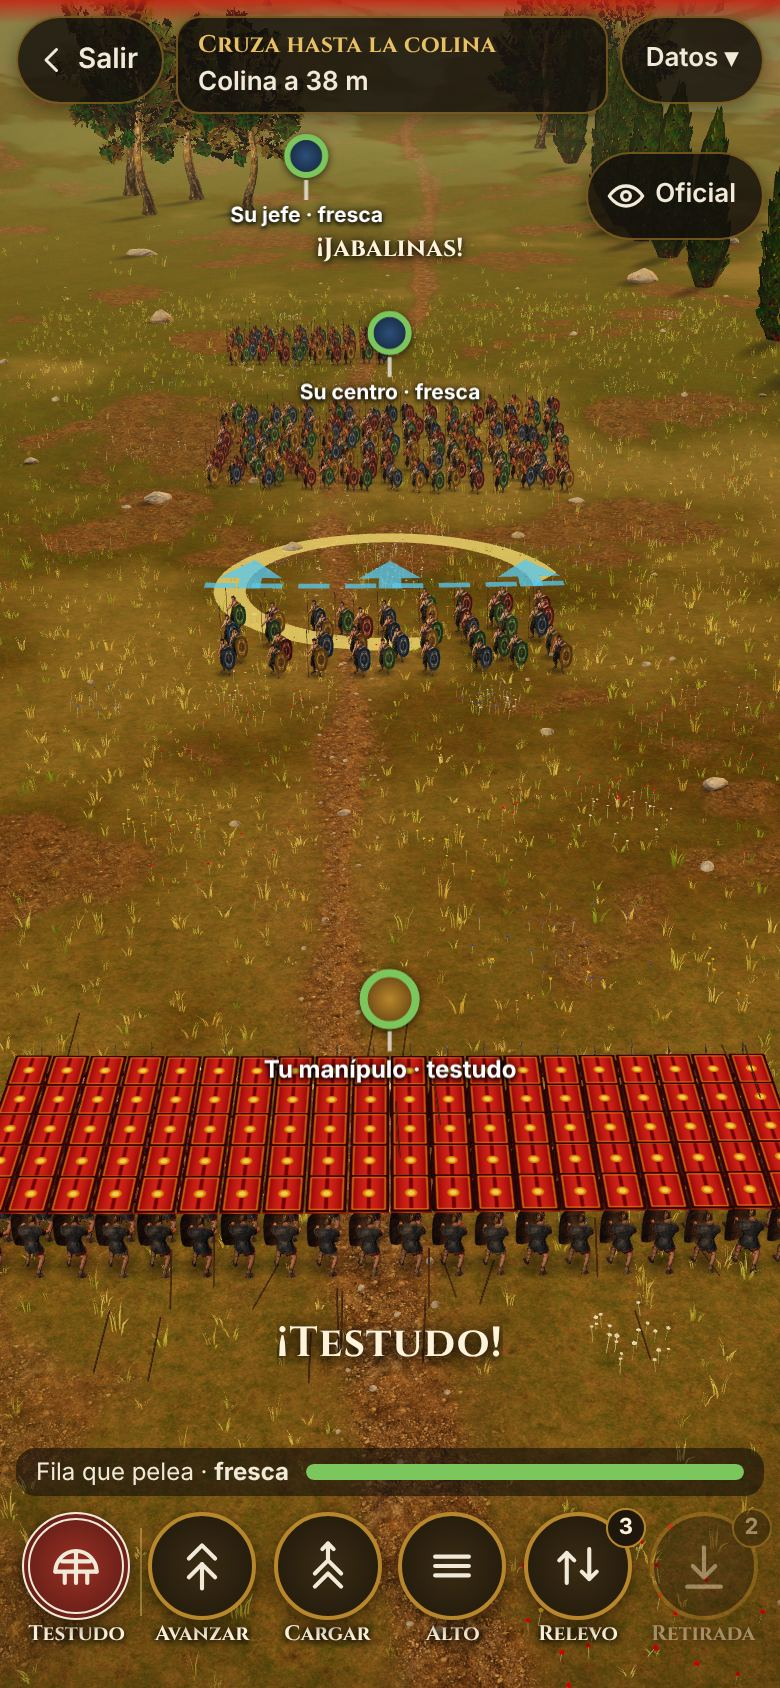
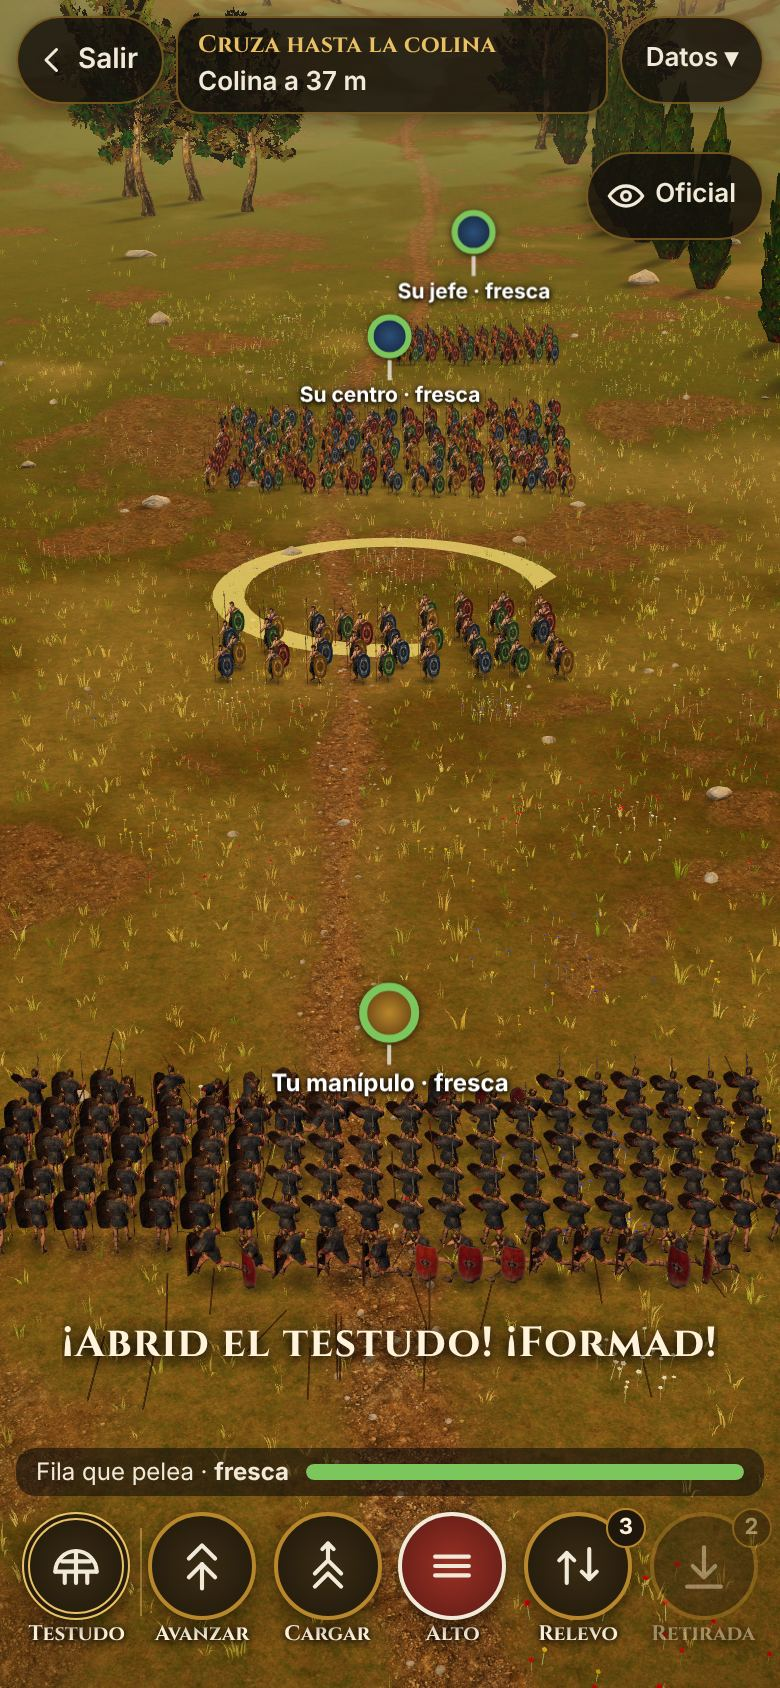
BT1 (en curso): arreglos del revisor (caídos como antes, Todos con tiradores, etiquetas cada 100 ms)
Claude-Session: https://claude.ai/code/session_01QiKC37zgjc4vgjv1qazD4k

diff --git a/gobierno/maquetas/bloque/tropas.js b/gobierno/maquetas/bloque/tropas.js
@@ -18,15 +18,8 @@ const hash = k => { const v = Math.sin(k * 127.1 + 311.7) * 43758.5453; return v
 const HUECO = { falange: [0.78, 0.95, 0.08], manipulo: [1.0, 1.2, 0.08], galos: [1.3, 1.35, 0.38], nobles: [1.2, 1.3, 0.25], tiradores: [1.7, 1.8, 0.5] };
 const DUR = { golpear: 1.55, lanzar: 1.85, cubrirse: 1.25, morir: 2.4, encajar: 0.35 };
 const CAIDOS_MAX = 700;
-const T_C = 1.25, P_C = 0.3, R_C = 0.24, V_C = 1.2, M_C = 2;   /* BT1: el caído (la cabeza T_C detrás del sitio, los pies P_C delante; medio ancho) y cuánto se corre */
-/* distancia entre los tramos (ax,az)-(bx,bz) y (cx,cz)-(dx,dz), en el suelo → { d, vx, vz } (del segundo al primero) */
-function dist2(ax, az, bx, bz, cx, cz, dx, dz) {
-  const ux = bx - ax, uz = bz - az, wx = dx - cx, wz = dz - cz, rx = ax - cx, rz = az - cz, a = ux * ux + uz * uz, e = wx * wx + wz * wz, f = wx * rx + wz * rz;
-  let s, t; if (a < 1e-9) { s = 0; t = e < 1e-9 ? 0 : Math.max(0, Math.min(1, f / e)); }
-  else { const c = ux * rx + uz * rz; if (e < 1e-9) { t = 0; s = Math.max(0, Math.min(1, -c / a)); } else { const b = ux * wx + uz * wz, den = a * e - b * b; s = den > 1e-9 ? Math.max(0, Math.min(1, (b * f - c * e) / den)) : 0; t = (b * s + f) / e; if (t < 0) { t = 0; s = Math.max(0, Math.min(1, -c / a)); } else if (t > 1) { t = 1; s = Math.max(0, Math.min(1, (b - c) / a)); } } }
-  const vx = ax + ux * s - cx - wx * t, vz = az + uz * s - cz - wz * t; return { d: Math.hypot(vx, vz), vx, vz };
-}
 const FRENA = 0.88;   /* LP5a: el que va contra alguien afloja hasta 1 − FRENA de su paso (lo mismo que fisica.js FRENA) */
+
 export function crearTropas({ S, muroDelante = false, reales = [] }) {   /* FU3: reales = [{ b, hombres }]: bloques que se pintan con sus hombres de verdad (x, z, yaw, vivo), no con huecos */   /* FU1: muroDelante: en testudo la 1.ª fila no se cubre arriba, lleva el escudo de frente (guardia) */
   const figs = [], caidos = [];
   /* LP5a: cuánto se dibuja apartado cada bloque entero (lo pone la física cuando las reglas meten un bloque en otro):
@@ -61,14 +54,6 @@ export function crearTropas({ S, muroDelante = false, reales = [] }) {   /* FU3:
 
   function cae(f, T) {
     f.vivo = false; f.clip = 'morir'; f.t = 0; f.yawCae = f.yaw + (hash(f.semilla) - 0.5) * 1.2;   /* LP5a: gira hacia ahí mientras cae (sin salto) */
-    /* BT1: el muñeco de morir cae de espaldas (la cabeza, TENDIDO detrás de los pies): si ahí ya hay otro caído, cae hacia el lado más libre */
-    let mejor = -1, yMejor = f.yawCae;
-    for (const d of [0, 0.5, -0.5, 1.0, -1.0, 1.6, -1.6, Math.PI]) {
-      const y = f.yawCae + d, hx = f.x - Math.sin(y) * 0.7, hz = f.z - Math.cos(y) * 0.7;   /* el pecho del caído */
-      let libre = 9; for (const c of caidos) { if (c.t === undefined) continue; const cy = c.yawCae ?? c.yaw; libre = Math.min(libre, Math.hypot(hx - (c.x - Math.sin(cy) * 0.7), hz - (c.z - Math.cos(cy) * 0.7))); }
-      if (libre > 1.0) { yMejor = y; break; } if (libre > mejor) { mejor = libre; yMejor = y; }
-    }
-    f.yawCae = yMejor;
     const i = figs.indexOf(f); if (i >= 0) figs.splice(i, 1);
     caidos.push(f); if (caidos.length > CAIDOS_MAX) caidos.shift();
   }
@@ -177,27 +162,6 @@ export function crearTropas({ S, muroDelante = false, reales = [] }) {   /* FU3:
       }
     }
     for (const f of caidos) if (f.t < DUR.morir) { f.t += dt; if (f.yawCae !== undefined) giraA(f, f.yawCae, 0.8, dt); }
-    separaCaidos(dt);
-  }
-
-  /* BT1: los caídos no se cruzan ni quedan metidos bajo un vivo. El cuerpo tendido es el tramo de los pies (x, z) a la cabeza (T_C detrás, según
-     su giro; los pies, P_C delante) con medio ancho R_C; si dos se cruzan, el caído se corre lo justo (a lo más V_C m/s y M_C m en total, para que no resbale por el
-     campo). Que los vivos no pisen al caído lo hace la física (fisica.js), con el caído donde se dibuja. Solo dibujo; la física de caídos (fisica.js) lee esta misma posición. Licencia de juego */
-  function separaCaidos(dt) {
-    if (!caidos.length) return;
-    const G = new Map(), k = (x, z) => Math.floor(x / 2) + ',' + Math.floor(z / 2), tope = V_C * Math.max(dt, 0.02);
-    const cab = f => { const y = f.yaw; return [f.x - Math.sin(y) * T_C, f.z - Math.cos(y) * T_C]; }, pie = f => { const y = f.yaw; return [f.x + Math.sin(y) * P_C, f.z + Math.cos(y) * P_C]; };
-    for (const f of caidos) { const q = k(f.x, f.z); (G.get(q) || G.set(q, []).get(q)).push(f); }
-    const cerca = (x, z) => { const o = []; const cx = Math.floor(x / 2), cz = Math.floor(z / 2); for (let a = -1; a <= 1; a++) for (let b = -1; b <= 1; b++) { const l = G.get((cx + a) + ',' + (cz + b)); if (l) o.push(...l); } return o; };
-    const mueve = (f, dx, dz) => { const m = Math.hypot(dx, dz), resta = M_C - (f.movC || 0); if (m < 1e-6 || resta <= 0) return; const e = Math.min(1, tope / m, resta / m); f.x += dx * e; f.z += dz * e; f.movC = (f.movC || 0) + m * e; };
-    for (const a of caidos) {
-      const [ax, az] = cab(a), [pax, paz] = pie(a);
-      for (const b of cerca(a.x, a.z)) {
-        if (b === a || b.semilla < a.semilla) continue;
-        const [bx, bz] = cab(b), [pbx, pbz] = pie(b), r = dist2(pax, paz, ax, az, pbx, pbz, bx, bz), falta = 2 * R_C - r.d; if (falta <= 0) continue;
-        const nx = r.d > 1e-4 ? r.vx / r.d : 1, nz = r.d > 1e-4 ? r.vz / r.d : 0; mueve(a, nx * falta / 2, nz * falta / 2); mueve(b, -nx * falta / 2, -nz * falta / 2);
-      }
-    }
   }
 
   /* tras saltar en el tiempo (capturas): todos en su hueco y mirando al frente */

diff --git a/gobierno/maquetas/bloque/formaciones/falange.js b/gobierno/maquetas/bloque/formaciones/falange.js
@@ -267,14 +267,12 @@ export function pintaSarisas(M, lista, o) {
         const cy = Math.cos(dy), sy = Math.sin(dy), x = V.D.x * cy + V.D.z * sy, z = -V.D.x * sy + V.D.z * cy, hz = Math.hypot(x, z) || 1, yy = V.D.y * Math.cos(dp) + hz * Math.sin(dp), hz2 = hz * Math.cos(dp) - V.D.y * Math.sin(dp);
         Da[0] = x / hz * hz2; Da[1] = yy; Da[2] = z / hz * hz2; const nd = Math.hypot(Da[0], Da[1], Da[2]); Da[0] /= nd; Da[1] /= nd; Da[2] /= nd;
         Pa[0] = W[0] - Da[0] * atras; Pa[1] = W[1] - Da[1] * atras; Pa[2] = W[2] - Da[2] * atras;
-        let n = 0; for (const c of vecinos) if (toca(Pa, Da, c) && ++n > peor) return false; return n === 0; };
-      let peor = 0;   /* con todos tocando, se queda el desvío que toca a menos */
+        for (const c of vecinos) if (toca(Pa, Da, c)) return false; return true; };
       let d0 = desvios.get(h) || DESVIOS[0], hecho = vecinos.length === 0 || libre(d0[0], d0[1]);
       if (!hecho && d0 !== DESVIOS[0]) { d0 = DESVIOS[0]; hecho = libre(0, 0); }
       if (!hecho) for (const d of DESVIOS) if (libre(d[0], d[1])) { d0 = d; hecho = true; break; }
       if (!hecho && kB > 0.05) { h.alzaBT1 = Tm + 1.5; coloca(0); W = [V.P.x + V.D.x * atras, V.P.y + V.D.y * atras, V.P.z + V.D.z * atras]; d0 = DESVIOS[0]; hecho = libre(0, 0); }   /* sin paso limpio: alzada */
       if (!hecho) { coloca(0, true); W = [V.P.x + V.D.x * atras, V.P.y + V.D.y * atras, V.P.z + V.D.z * atras]; d0 = DESVIOS[0]; hecho = true; h.alzaBT1 = Math.max(h.alzaBT1 || 0, Tm + 1.5); }   /* y si aún toca (un caído a sus pies): alzada con el regatón en alto */
-      if (!hecho) { let mejor = Infinity; peor = 99; for (const d of DESVIOS) { libre(d[0], d[1]); const n = vecinos.reduce((a, c) => a + (toca(Pa, Da, c) ? 1 : 0), 0); if (n < mejor) { mejor = n; d0 = d; } } peor = 0; }
       desvios.set(h, d0); if (forma) forma.desviadas = (forma.desviadas || 0) + (d0 !== DESVIOS[0] ? 1 : 0) + (hecho ? 0 : 1000); if (d0 !== DESVIOS[0]) { libre(d0[0], d0[1]); V.D.set(Da[0], Da[1], Da[2]); V.P.set(Pa[0], Pa[1], Pa[2]); }
     }
     if (!h.picaRota && FI && h.alzaBT1 === undefined) { const r = FI.pica(h, V.P, V.D, SARISA); if (r && r.ret) V.P.addScaledVector(V.D, -r.ret); }

diff --git a/gobierno/maquetas/bloque/formaciones/combinada.js b/gobierno/maquetas/bloque/formaciones/combinada.js
@@ -20,7 +20,7 @@ export function escenarioAsculo(q) { const e = q.get('escenario') === 'asculo', 
 export function crear() {
   const ASC = escenarioAsculo(new URLSearchParams(location.search)), ROMA = !!(ASC && ASC.bando === 'roma');
   let ctx = null, M = null, tira = null, vista = null, aros = [], tAro = 0;
-  let MS = null;   /* BT1: las sarisas de los bloques de falange (Ásculo) */
+  let MS = null, rivC = null;   /* BT1: las sarisas de los bloques de falange (Ásculo) y la lista de rivales */
   const camaras = { v: { d: 95, alto: 70, ad: 30, fov: 56 }, h: { d: 52, alto: 34, ad: 22, fov: 44 } };
   /* BT1: los falangitas de Ásculo (bloques 'falange' de js/bloque.js, pintados a hueco por tropas.js) llevan la sarisa de formaciones/falange.js
      (pintaSarisas: mismo carril, mismo apartado). La bajan las cinco primeras filas al trabarse, al cargar o con el rival a menos de 30 m */
@@ -38,7 +38,9 @@ export function crear() {
       f.gk = h.r < 5 && h.vivo && !h.huye && h.alzaBT1 === undefined ? h.kB : 0; f.gg = 0;
       if (h.vivo && !h.huye && h.r < 5 && h.kB > 0.5 && !(f.v > 0.3) && f.clip !== 'morir' && f.clip !== 'guardia') { f.clip = 'guardia'; f.t = (h.i % 97) * 0.03; }
     }
-    const bandos = new Set([...baja.keys()].map(b => b.bando)), rivales = ctx.TR.figs.filter(f => f.vivo !== false && f.b && !bandos.has(f.b.bando));   /* el asta no pasa por dentro de un rival */
+    /* el asta no pasa por dentro de un rival: la lista se rehace cada 8 cuadros o si cambia el número de hombres (no cada cuadro) */
+    if (!rivC || ++rivC.n >= 8 || rivC.len !== ctx.TR.figs.length) { const bandos = new Set([...baja.keys()].map(b => b.bando)); rivC = { n: 0, len: ctx.TR.figs.length, l: ctx.TR.figs.filter(f => f.vivo !== false && f.b && !bandos.has(f.b.bando)) }; }
+    const rivales = rivC.l;
     pintaSarisas(MS, lista, { H: ctx.H, Tm: S.T, rivales, caidos: ctx.TR.caidos });
   }
   function monta(c) {

diff --git a/js/ui-mando.js b/js/ui-mando.js
@@ -445,6 +445,7 @@
     }
 
     /* ---------- barras sobre cada manípulo: hombres, moral, cansancio ---------- */
+    let sepCam = '', sepT = -1e9;   /* BT1: la última separación de estandartes (cámara y hora) */
     function pintarBarras() {
       const al = Math.max(0, Math.min(1, acum / PASO)), y = altoN * TALLA * 1.9;
       for (const u of S.man) {
@@ -460,7 +461,9 @@
         pon(mo, u.moral); pon(fa, 1 - u.fatiga);
       }
       /* BT1: las etiquetas no se pisan ni asoman encima de la ficha, la barra de órdenes, la de arriba o los avisos */
-      if (mods.RO) mods.RO.separaEstandartes($('capa'), { zonas: [$('abajo'), $('arriba'), $('formas')], fijos: [$('aviso'), $('cinta')], pila: 2, peso: (e, r) => (e.classList.contains('sel') ? 100 : 0) + (e.classList.contains('ene') ? 0 : 10) + r.bottom / alto });   /* como mucho dos en torre: sobran las del rival más lejanas */
+      const camK = Math.round(camara.position.x * 10) + ',' + Math.round(camara.position.y * 10) + ',' + Math.round(camara.position.z * 10) + ',' + ancho + 'x' + alto, ahoraE = performance.now();   /* BT1: cada ~100 ms o si la cámara cambia (no cada cuadro) */
+      if (mods.RO && (camK !== sepCam || ahoraE - sepT > 100)) sepCam = camK, sepT = ahoraE;
+      if (mods.RO && sepT === ahoraE) mods.RO.separaEstandartes($('capa'), { zonas: [$('abajo'), $('arriba'), $('formas')], fijos: [$('aviso'), $('cinta')], pila: 2, peso: (e, r) => (e.classList.contains('sel') ? 100 : 0) + (e.classList.contains('ene') ? 0 : 10) + r.bottom / alto });   /* como mucho dos en torre: sobran las del rival más lejanas */
     }
 
     /* ---------- ficha y botones de la selección ----------

diff --git a/gobierno/maquetas/bloque/fisica.js b/gobierno/maquetas/bloque/fisica.js
@@ -79,7 +79,7 @@ export function crearFisicaBloque({ S, TR, H = () => 0, activa = true, semilla =
       if (f.h) { c.f = f.h.col; c.r = f.h.fila; c.guardia = guardia(f.h, S); SF.fal.push(c); }
       else { c.guardia = null; SF.ene.push(c); }
     }
-    for (const f of TR.caidos) { if (!despiertos.has(f.b)) continue; const c = cuerpo(f); if (c.vivo) { c.vivo = false; c.yaw = f.yaw; } c.x = f.x; c.z = f.z; tiende(c, f);   /* BT1: el caído, donde se dibuja (tropas.js lo corre si cae sobre otro) */ alarga(c, dt); (f.h ? SF.fal : SF.ene).push(c); }
+    for (const f of TR.caidos) { if (!despiertos.has(f.b)) continue; const c = cuerpo(f); if (c.vivo) { c.vivo = false; c.x = f.x; c.z = f.z; c.yaw = f.yaw; } tiende(c, f); alarga(c, dt); (f.h ? SF.fal : SF.ene).push(c); }
   }
   /* la frontera: dos bloques rivales no se meten uno en otro, aunque las reglas metan un rectángulo en otro (o unos tiradores
      que huyen pasen por encima de tus filas). Para cada par de bloques rivales cuyos rectángulos (los de sus hombres, con MARGEN) se tocan: la

diff --git a/gobierno/maquetas/bloque/soldados.js b/gobierno/maquetas/bloque/soldados.js
@@ -151,6 +151,9 @@ export function gestoEspada(f, t, i, prestadas = false) {   /* prestadas: el cue
     if (!prestadas) { const mu = t.malla.geometry.attributes.aMuestra; mu.setX(i, clip === 'guardia' ? 2 : 4); mu.needsUpdate = true; }   /* andando, la espada envainada y sin lanza */
   }
   if (!CON_ESPADA[clip]) return;   /* en testudo, la 1.ª fila (el muro) va en guardia: también; los de debajo del techo, «cubrirse», no */
+  /* las filas de atrás (de la 3.ª en adelante) esperan con la espada envainada: a medio metro unos de otros, la hoja desnuda entraba en el vecino */
+  const fila = f.h ? (f.h.fila ?? f.h.r ?? 0) : f.b && f.b.vis && f.slot !== undefined ? Math.floor(f.slot / f.b.vis.cols) : 0;
+  if (clip === 'guardia' && fila >= 2) { if (!prestadas) { const mu = t.malla.geometry.attributes.aMuestra; mu.setX(i, 4); mu.needsUpdate = true; } return; }
   const k = kitGestos(t); if (!k) return;
   const tb = k.tab, cu = t.malla.geometry.attributes.aCuadro, fps = (t.s.j.clips.quieto || {}).fps || 30;
   let a, b, x;

diff --git a/js/mando-varios.js b/js/mando-varios.js
@@ -121,9 +121,9 @@ export function crearMando(C, { MO, avisa = () => {}, hueco = HUECO } = {}) {
   }
   function aplicaOrden(id, n) {
     if (id !== 'todos') return ordenA(por(id), n);
-    /* «Todos»: a cada cuerpo, la orden de su mismo hueco (BT1; la propia, solo a los de su tipo). Los tiradores, la misma palabra (como antes) */
+    /* «Todos»: a cada cuerpo, la orden de su mismo hueco (BT1; la propia, solo a los de su tipo), también a los tiradores (HUECOS.tiradores) */
     const h = M.ordenesDe('todos').indexOf(n); let ok = false;
-    for (const c of cuerpos) { const nc = c.alOrden ? n : M.ordenesDe(c.id)[h]; if (nc && (h > 0 || nc === n)) ok = ordenA(c, nc) || ok; }
+    for (const c of cuerpos) { const nc = c.alOrden ? (h > 0 ? HUECOS.tiradores[BARRA[h]] : n) : M.ordenesDe(c.id)[h]; if (nc && (h > 0 || nc === n)) ok = ordenA(c, nc) || ok; }   /* los tiradores, la orden de su hueco (Retirada → retirarse) */
     return ok;
   }
   M.orden = n => {
